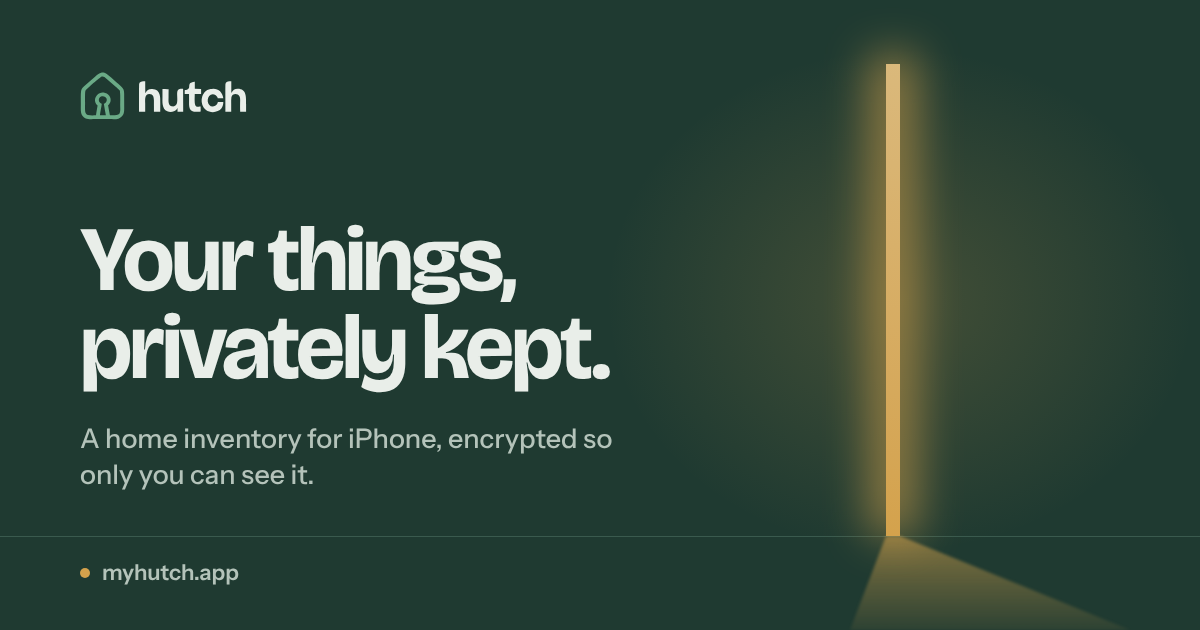
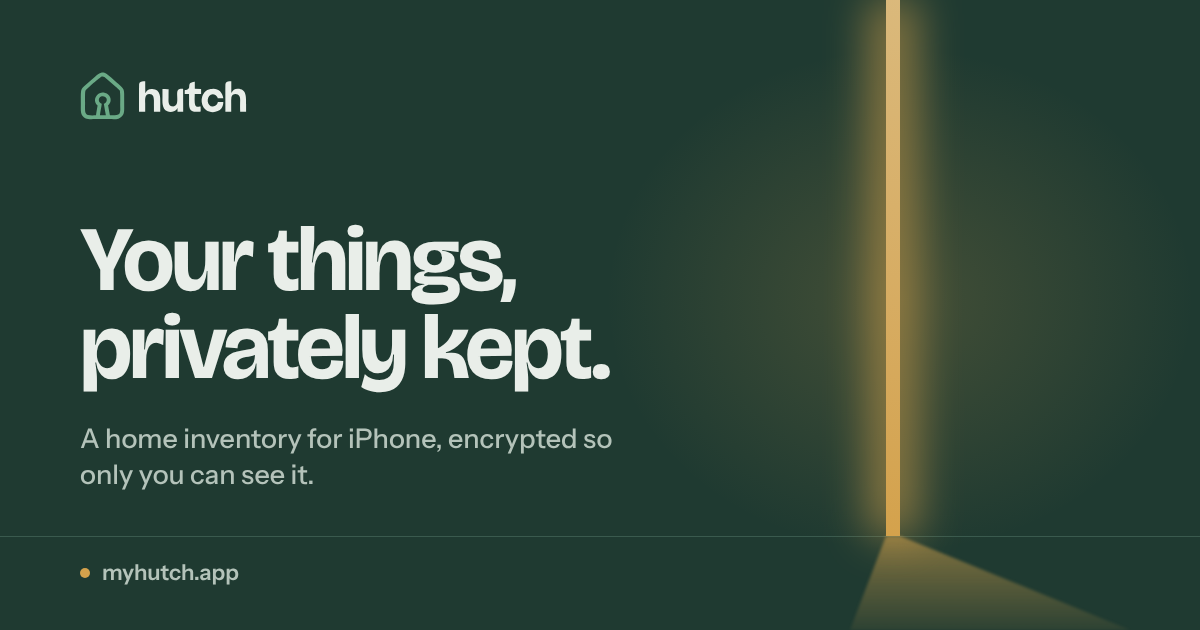
Link preview: run the door gap to the top edge
A gap that stops short of the top shows the door's full height, small and
far away; cropped by the frame, it reads as a door right in front of you.

Claude-Session: https://claude.ai/code/session_018no6wa4sGhZs7E6E4tjFuv

Changed region(s): [[0.7092, 0.0, 0.8017, 0.1206]]

diff --git a/apps/web/og/card.html b/apps/web/og/card.html
@@ -28,10 +28,10 @@
   .halo { position: absolute; inset: 0; filter: blur(22px); opacity: 0.6; }
   .gap, .halo i, .spill i { position: absolute; display: block; }
   .gap {
-    left: 886px; top: 64px; width: 14px; height: 472px;
+    left: 886px; top: 0; width: 14px; height: 536px;
     background: linear-gradient(to bottom, color-mix(in srgb, var(--color-accent) 70%, var(--color-on-deep)), var(--color-accent));
   }
-  .halo i { left: 869px; top: 54px; width: 48px; height: 482px; background: var(--color-accent); }
+  .halo i { left: 869px; top: 0; width: 48px; height: 536px; background: var(--color-accent); }
   /* The light falling across the floor toward you: it leaves the gap at the gap's own width and widens
      as it comes closer, more on the side the door swings open. */
   .spill { position: absolute; inset: 0; filter: blur(1.5px); }

diff --git a/DECISIONS.md b/DECISIONS.md
@@ -126,7 +126,7 @@ Drives whether to rename (see D1), invest in multi-platform polish, or pursue th
 ## D16 — Link preview: the door's light, rendered from the site's own tokens
 **Status:** Proposed (Oct 2026).
 
-**What:** sharing myhutch.app shows a 1200×630 card (`apps/web/public/og.png`): forest background, "Your things, privately kept.", and a tall, narrow gap of brass light of even width, spilling onto the floor in a wedge that starts at the gap's full width. (It first tapered to a hairline at the floor, after the old carved-"h" logo; that made the floor light fan from a point, which read as a spotlight, not a door, and the carved-"h" logo was dropped anyway.) The card is an HTML page (`apps/web/og/card.html`) on the site's tokens and fonts, rendered by `npm run og` in headless Chromium via a pinned `playwright-core` dev dependency. The PNG is committed; `npm test` fails if the card, tokens or fonts changed since it was rendered.
+**What:** sharing myhutch.app shows a 1200×630 card (`apps/web/public/og.png`): forest background, "Your things, privately kept.", and a narrow gap of brass light of even width, from the top edge to the floor, spilling onto the floor in a wedge that starts at the gap's full width. (It first tapered to a hairline at the floor, after the old carved-"h" logo; that made the floor light fan from a point, which read as a spotlight, not a door, and the carved-"h" logo was dropped anyway.) The card is an HTML page (`apps/web/og/card.html`) on the site's tokens and fonts, rendered by `npm run og` in headless Chromium via a pinned `playwright-core` dev dependency. The PNG is committed; `npm test` fails if the card, tokens or fonts changed since it was rendered.
 
 **Why:** the site had no Open Graph tags, so shared links showed a bare URL. Light through a door ajar carries the brand's feeling (home, private, open when you choose) without drawing a door, which D15 found heavy-handed. Rendering in a real browser keeps the variable display font exactly as on the site; the usual Node image generators can't read its woff2 files. Rendering only on demand keeps the Cloudflare build browser-free.
 

diff --git a/apps/web/DESIGN.md b/apps/web/DESIGN.md
@@ -67,7 +67,7 @@ Text pages (privacy, support, 404) use the same header and footer, a `layout-pro
 When someone shares a myhutch.app link, apps show `public/og.png` (1200×630), set through the Open Graph tags in `Base.astro`. The card is a real page, [`og/card.html`](og/card.html), using the same tokens and self-hosted fonts as the site, so it can't drift from the brand (D16).
 
 - **Forest** (`deep`) background; the logo with its mark in `sage-on-deep` and wordmark in `on-deep`; headline (`preview-headline`) in `on-deep`, the line below (`preview-lede`) in `on-deep-muted`.
-- **The light:** a tall, narrow `accent` gap of even width, with a soft glow and a wedge of light on the floor that leaves the gap at its full width and widens toward the viewer. (A sliver tapering to a hairline at the floor was tried first: the floor light fanned out of a single point and read as a spotlight or a blade, not a door.) Light through a door left ajar, shown as light rather than drawn as a door: home, private, and warm inside. Its geometry is fixed pixels on a fixed-size image.
+- **The light:** a narrow `accent` gap of even width, running from the top edge to the floor (a door seen up close, cropped by the frame), with a soft glow and a wedge of light on the floor that leaves the gap at its full width and widens toward the viewer. (A sliver tapering to a hairline at the floor was tried first: the floor light fanned out of a single point and read as a spotlight or a blade, not a door.) Light through a door left ajar, shown as light rather than drawn as a door: home, private, and warm inside. Its geometry is fixed pixels on a fixed-size image.
 - `npm run og` re-renders the PNG in headless Chromium. `npm test` fails if the card, the tokens or the fonts changed since the last render (`og/card.sha256`), so a token change can't leave a stale image. Comments in `tokens.css` don't count.
 
 ## Favicon
